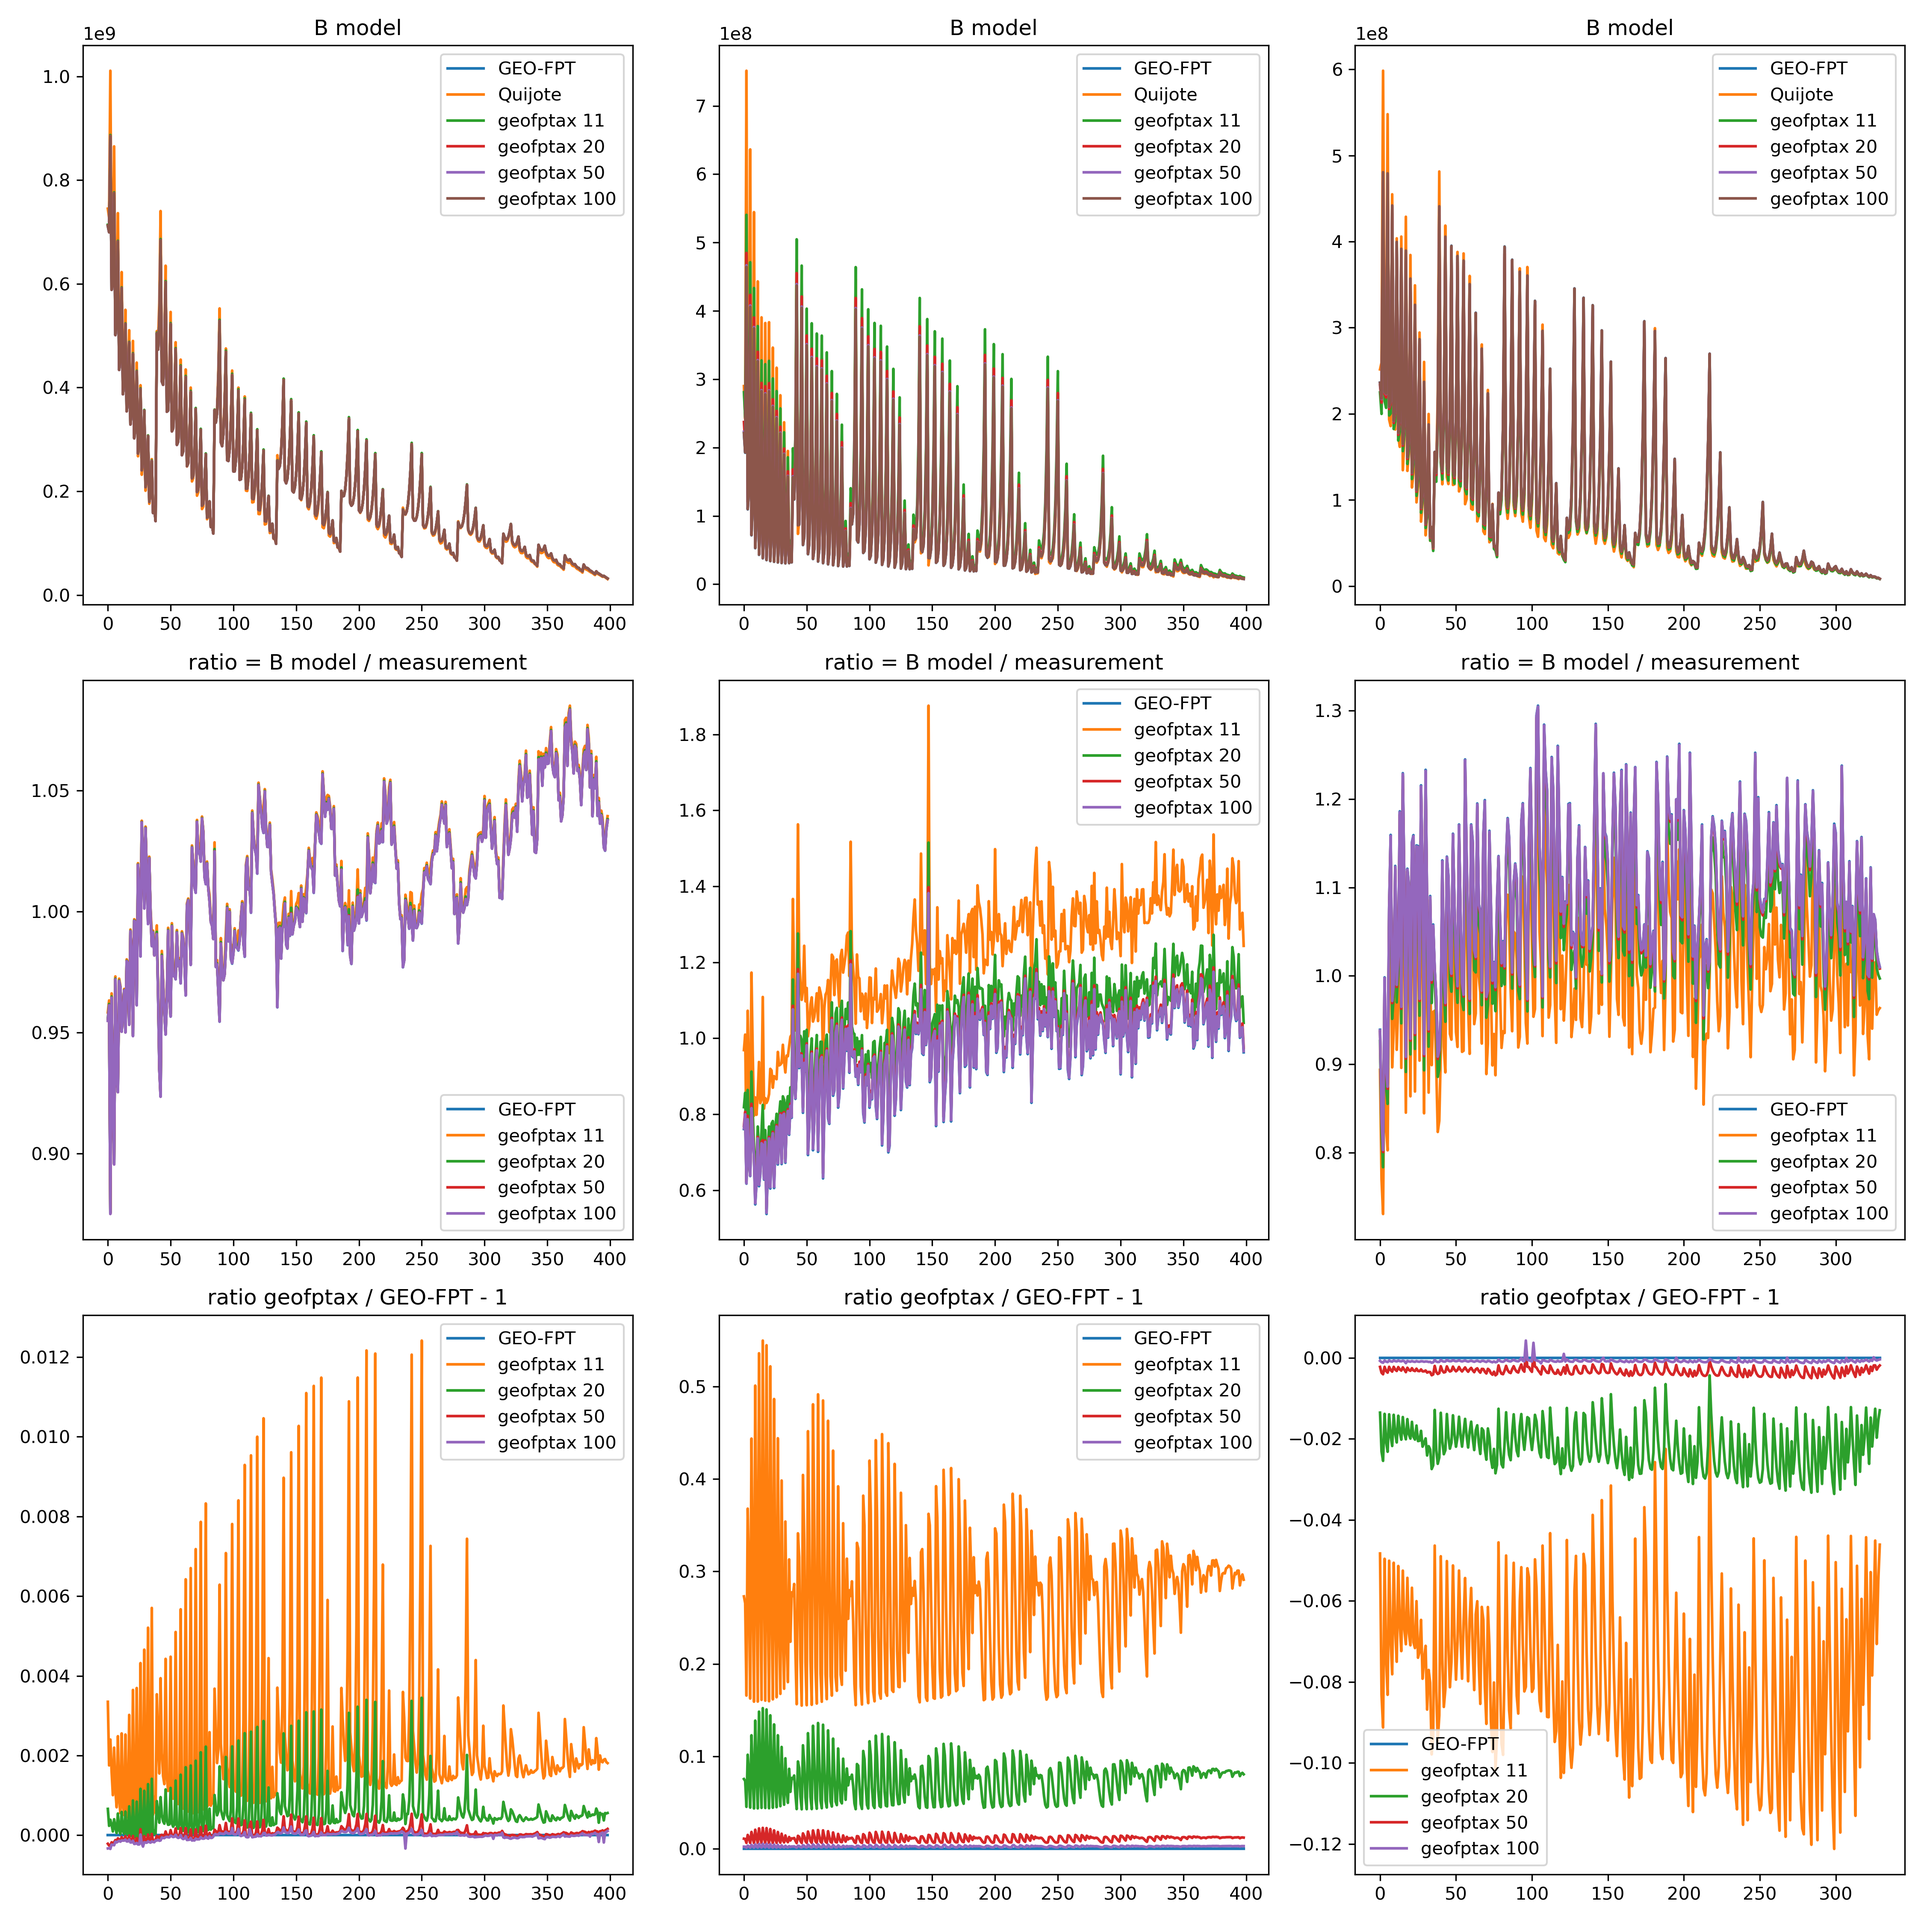
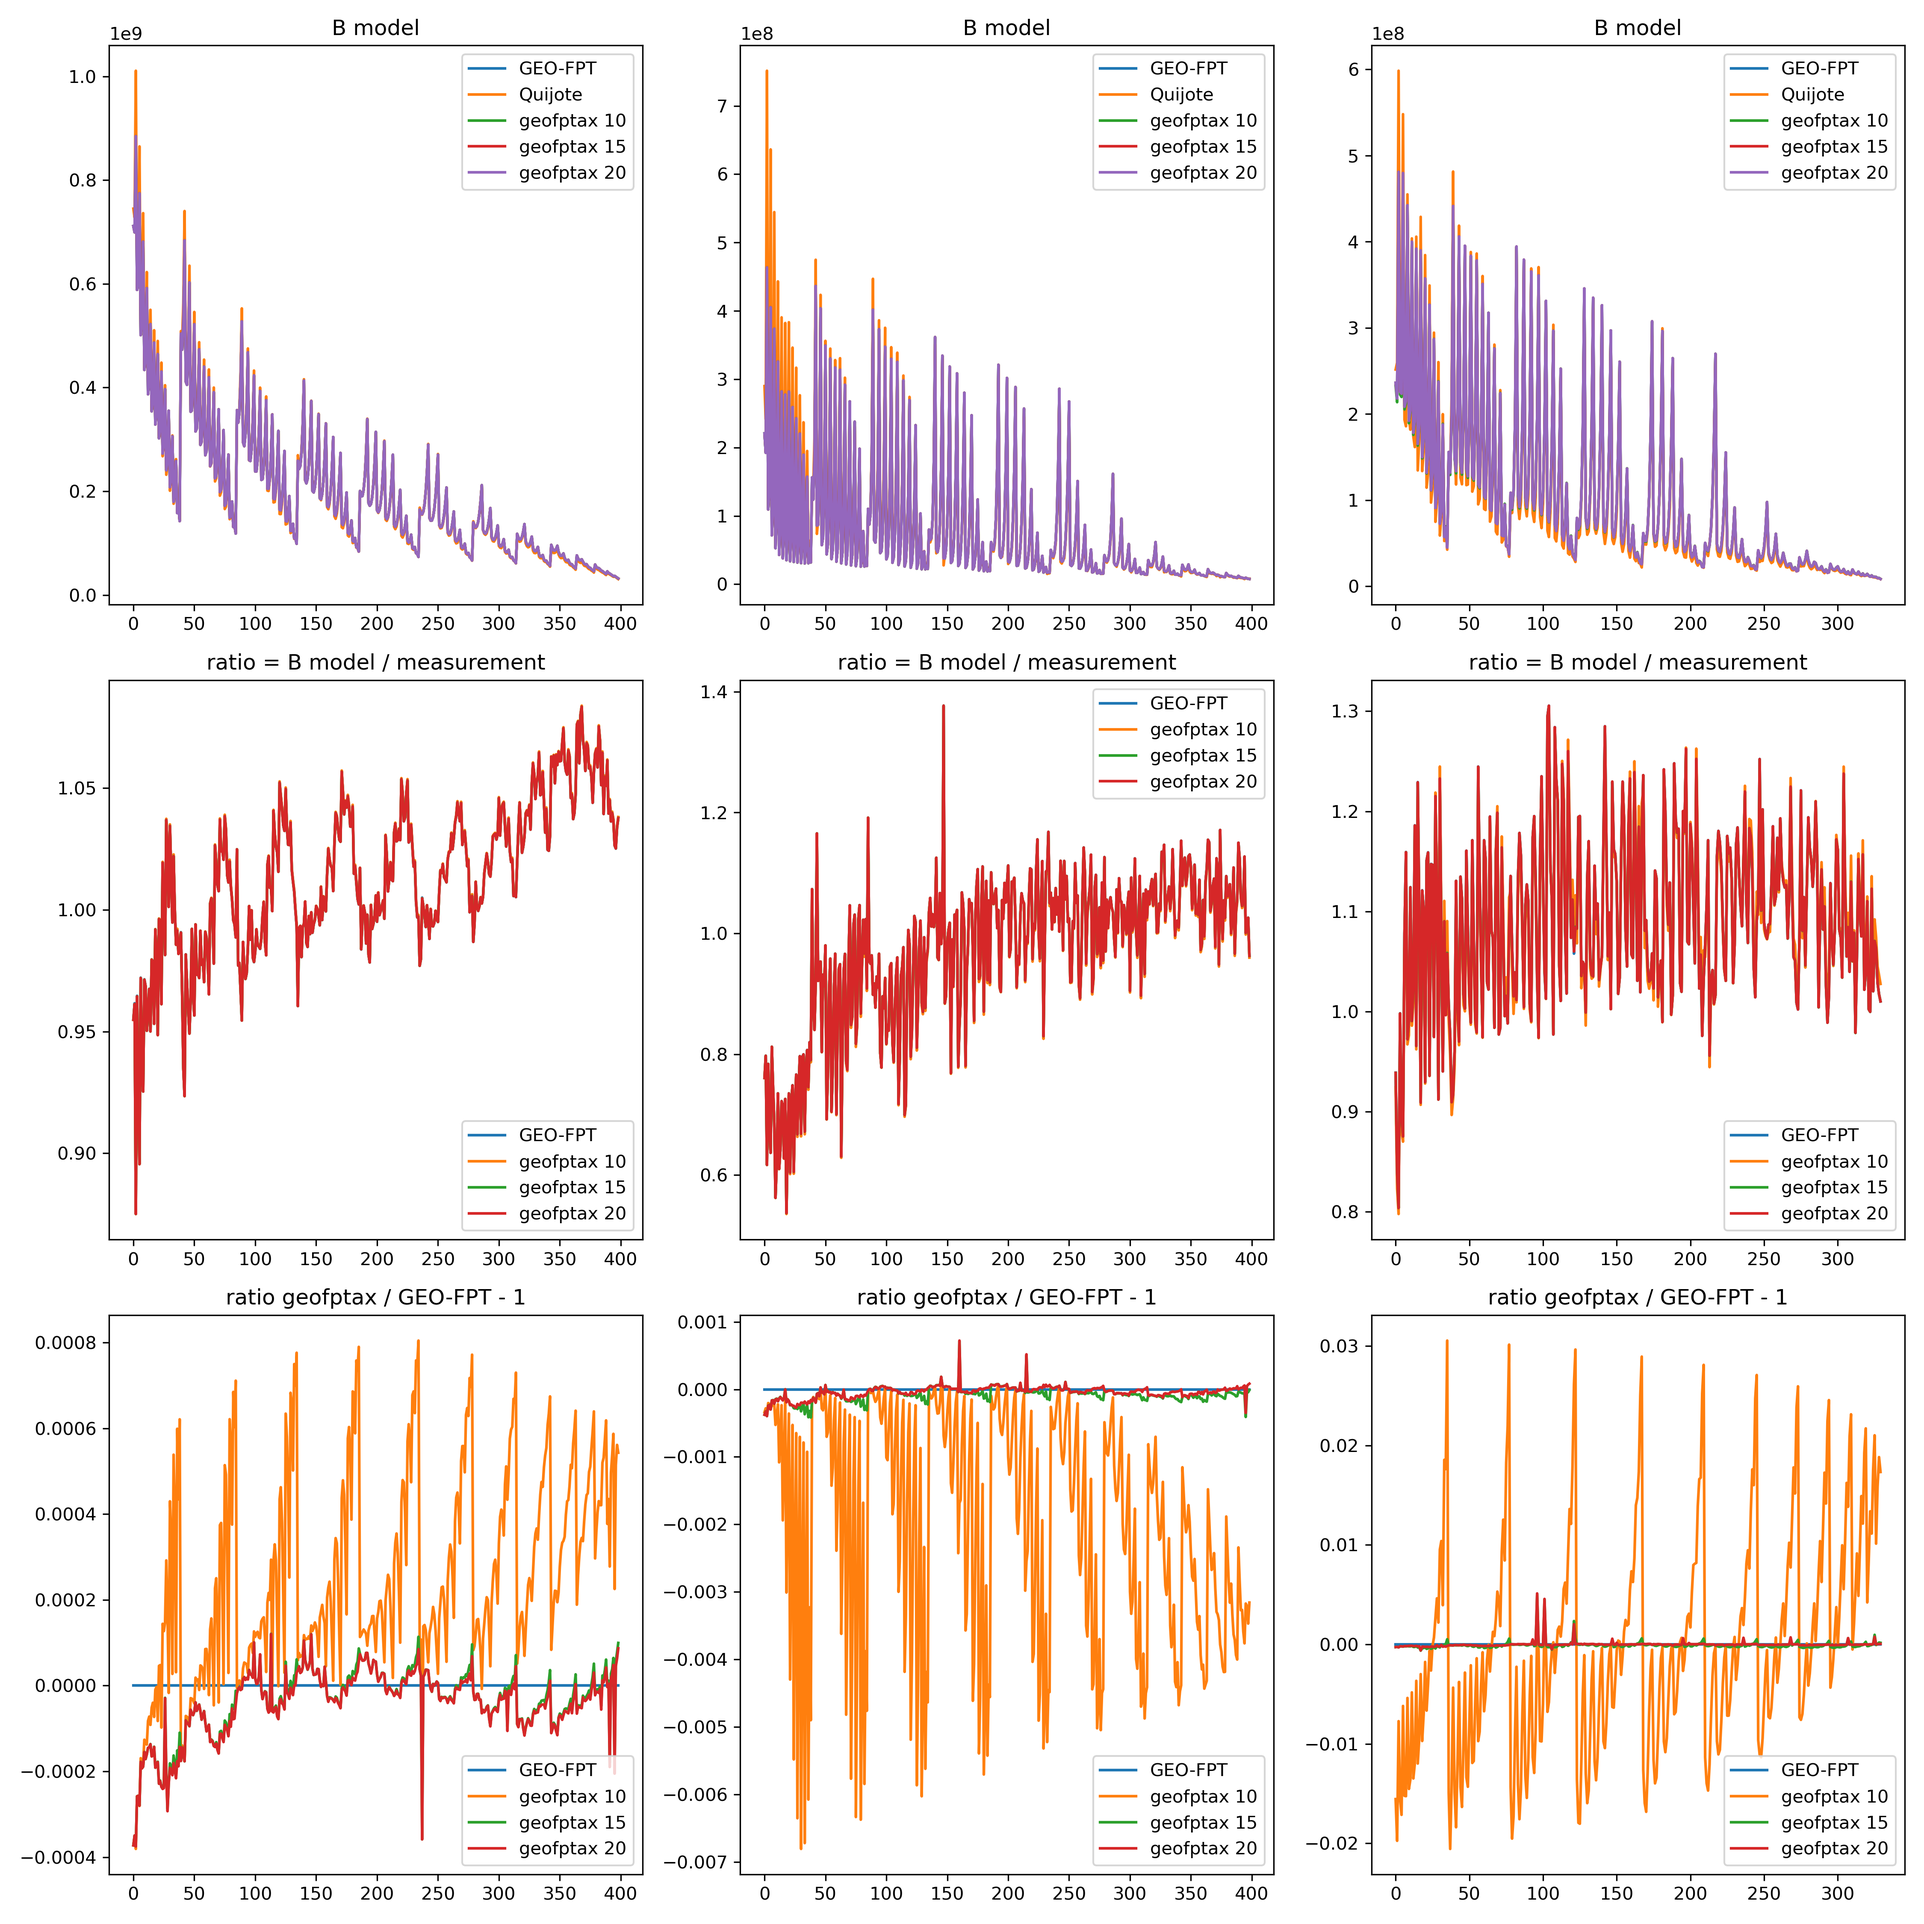
Switched trapezoidal integration to Gauss-Legendre

diff --git a/geofptax/kernels.py b/geofptax/kernels.py
@@ -7,42 +7,114 @@ from .constants import *
 
 
 
-def integrate_1d(f, a, b, args = ()):
-    """
-    Perform 1D integration using quadgk.
+@jax.jit
+def jax_leggauss(x):
+    """JAX-compatible Gauss-Legendre quadrature weights and nodes."""
+    # Use Newton's method to find roots of Legendre polynomials
+    # Initial guess (Chebyshev nodes)
+    n = x.shape[0]
+    x = jnp.cos(jnp.pi * (x + 0.5) / n)
     
-    Args:
-        f: Function to integrate.
-        a, b: Lower and upper limits of integration.
+    # Newton iteration
+    def body_fun(*val):
+        x, _ = val
+        P, P_prime = legendre_recurrence(x, n)
+        dx = P / P_prime
+        x_new = x - dx
+        return x_new, None
     
-    Returns:
-        The result of the 1D integral.
+    x, _ = jax.lax.scan(body_fun, x, None, length=5)  # 5 iterations typically sufficient
+    
+    # Compute weights
+    _, P_prime = legendre_recurrence(x, n)
+    w = 2.0 / ((1.0 - x**2) * P_prime**2)
+    return x, w
+
+def legendre_recurrence(x, n):
+    """Compute Legendre polynomial and its derivative using recurrence."""
+    P0 = jnp.ones_like(x)
+    P1 = x
+    dP0 = jnp.zeros_like(x)
+    dP1 = jnp.ones_like(x)
+    
+    for k in range(1, n):
+        P = ((2*k + 1)*x*P1 - k*P0)/(k + 1)
+        dP = ((2*k + 1)*(P1 + x*dP1) - k*dP0)/(k + 1)
+        P0, P1 = P1, P
+        dP0, dP1 = dP1, dP
+    
+    return P1, dP1
+
+@partial(jax.jit, static_argnames = ('f', 'nx', 'ny'))
+def integrate_2d_gauss(f, xmin, xmax, ymin, ymax, nx=20, ny=20):
     """
-    result, _ = quadgk(f, [a, b], args = args)
-    return result
+    Compute a 2D integral using vectorized Gauss-Legendre quadrature.
+
+    This function performs double integration of a function f(x,y) over the rectangular domain
+    [xmin, xmax] × [ymin, ymax] using Gauss-Legendre quadrature rules. The implementation
+    is fully JAX-compatible and optimized for parallel evaluation.
+
+    Parameters
+    ----------
+    f : callable
+        A JAX-compatible function of two variables to be integrated.
+        Signature must be f(x, y) where x and y are JAX arrays.
+    xmin : float
+        Lower bound of integration for the x-axis.
+    xmax : float
+        Upper bound of integration for the x-axis.
+    ymin : float
+        Lower bound of integration for the y-axis.
+    ymax : float
+        Upper bound of integration for the y-axis.
+    nx : int, optional
+        Number of Gauss-Legendre quadrature points for x-axis. Default is 20.
+    ny : int, optional
+        Number of Gauss-Legendre quadrature points for y-axis. Default is 20.
+
+    Returns
+    -------
+    float
+        The computed value of the integral ∫∫ f(x,y) dx dy over the domain.
+
+    Notes
+    -----
+    - The implementation uses JAX-native operations and is fully JIT-compilable.
+    - For smooth functions, nx=ny=20 typically gives machine precision.
+    - The quadrature weights/nodes are computed using the Golub-Welsch algorithm.
+    - The function handles vectorized inputs efficiently using JAX's vmap.
+
+    Examples
+    --------
+    >>> def f(x, y):
+    ...     return jnp.sin(x) * jnp.cos(y)
+    >>> integrate_2d_gauss(f, 0, 1, 0, 1)  # Integrate sin(x)cos(y) over [0,1]×[0,1]
+    Array(0.354036, dtype=float32)
+
+    See Also
+    --------
+    weights_leggauss : The underlying 1D quadrature implementation
+    jax.vmap : Used for vectorized function evaluation
+    """
+    # Get quadrature points and weights
+    x, wx = jax_leggauss(jnp.arange(nx))
+    y, wy = jax_leggauss(jnp.arange(ny))
+    
+    # Rescale from [-1, 1] to [xmin, xmax] × [ymin, ymax]
+    x_scaled = 0.5*(xmax - xmin)*x + 0.5*(xmax + xmin)
+    y_scaled = 0.5*(ymax - ymin)*y + 0.5*(ymax + ymin)
+    
+    # Create 2D grid of points
+    X, Y = jnp.meshgrid(x_scaled, y_scaled, indexing='ij')
+    
+    # Vectorized function evaluation
+    F = jax.vmap(jax.vmap(f, (0, 0)), (0, 0))(X, Y)
+    
+    # Compute integral
+    integral = jnp.sum(wx[:, None] * wy[None, :] * F)
+    return integral * 0.25*(xmax - xmin)*(ymax - ymin)
 
 
-def integrate_2d(f, xmin, xmax, ymin, ymax, args = ()):
-    """
-    2D integrator using nested 1D integrations with quadgk.
-    
-    Args:
-        f: Function to integrate, f(x, y).
-        xmin, xmax: Limits of integration for the x-axis.
-        ymin, ymax: Limits of integration for the y-axis.
-    
-    Returns:
-        The result of the 2D integral.
-    """
-    # Define a function to integrate f(x, y) over y for a fixed x
-    def integrate_y(x):
-        return integrate_1d(lambda y, *args: f(x, y, *args), ymin, ymax, args = args)
-    
-    
-    integral_2d = integrate_1d(integrate_y, xmin, xmax)
-    
-    return integral_2d
-    
     
 def cosab(ka, kb, kc):
     """
@@ -183,6 +255,7 @@ def z2_ker(ka, kb, kc, fkern, gkern, mua, mub, cosm_par):
 
     ksq = jnp.sqrt(ka**2 + kb**2 + 2 * ka * kb * cab)  # modulus of vector sum k1 + k2
     mu12 = (ka * mua + kb * mub) / ksq
+    # TODO: relax condition on bs and make it a parameter.
     bs = -4.0 / 7.0 * (b1 - 1.0)
     s2 = cab**2 - 1.0 / 3.0  # S_2 kernel
 
@@ -344,8 +417,47 @@ def bkeff_r_scalar(mua_m, phi, tr, cosm_par, pk_in, sig_fog, log_km, log_pkm, af
 
 bkeff_r_vmap = jax.vmap(bkeff_r_scalar, in_axes=(0, 0, None, None, None, None, None, None, None, None))
 
-
 def integrate_bkeff_r(tr, cosm_par, pk_in, sig_fog, log_km, log_pkm, af, mp, xmin, xmax, num_points):
+    """
+    Perform 2D integration of the effective bispectrum integrand using Gauss-Legendre quadrature.
+
+    Parameters
+    ----------
+    tr : tuple or jnp.ndarray
+        Triangle side lengths (ka_m, kb_m, kc_m) in real space.
+    cosm_par : jnp.ndarray
+        Cosmological parameters array.
+    pk_in : tuple or jnp.ndarray
+        Power spectrum values at ka_m, kb_m, kc_m.
+    sig_fog : float
+        Finger-of-God damping factor.
+    log_km : jnp.ndarray
+        Logarithm of wavevector magnitudes for interpolation.
+    log_pkm : jnp.ndarray
+        Logarithm of power spectrum values for interpolation.
+    af : jnp.ndarray
+        Array of coefficients for the GEO-FPT factor.
+    mp : int
+        Multipole index (0 for monopole, 1 for quadrupole, etc.).
+    xmin : tuple
+        Lower bounds of integration (mua_min, phi_min).
+    xmax : tuple
+        Upper bounds of integration (mua_max, phi_max).
+    num_points : int, optional
+        Number of Gauss-Legendre points for mua and phi axes. Default is 20.
+
+    Returns
+    -------
+    float
+        Result of the 2D integration.
+    """
+    nx , ny = num_points, num_points
+    def integrand(mua, phi):
+        return bkeff_r_scalar(mua, phi, tr, cosm_par, pk_in, sig_fog, log_km, log_pkm, af, mp)
+
+    return integrate_2d_gauss(integrand, xmin[0], xmax[0], xmin[1], xmax[1], nx=nx, ny=ny)
+
+def _integrate_bkeff_r(tr, cosm_par, pk_in, sig_fog, log_km, log_pkm, af, mp, xmin, xmax, num_points):
     """
     Perform 2D integration of the effective bispectrum integrand.
 
@@ -394,7 +506,6 @@ def integrate_bkeff_r(tr, cosm_par, pk_in, sig_fog, log_km, log_pkm, af, mp, xmi
 
 
 vec_integrate_bkeff_r = jax.jit(jax.vmap(integrate_bkeff_r, in_axes = (0, None, 0, None, None, None, None, None, None, None, None)), static_argnames = ('num_points',))
-vec_integrate = jax.jit(jax.vmap(integrate_2d, in_axes = (None, None, None, None, None, (0, None, 0, None, None, None, None, None))), static_argnames = ('f',))
 
 
 
@@ -466,7 +577,7 @@ def ext_bk_mp(tr, tr2, tr3, tr4, log_km, log_pkm, cosm_par, redshift, fi_vals=F_
 
 
 @partial(jax.jit, static_argnames=('num_points',))
-def bk_multip(tr, tr2, tr3, tr4, kp, pk, cosm_par, redshift, num_points=50, fi_vals=F_VALS_FULL):
+def bk_multip(tr, tr2, tr3, tr4, kp, pk, cosm_par, redshift, num_points=10, fi_vals=F_VALS_FULL):
     """
     Compute the bispectrum multipoles for a given set of triangles, power spectrum, and cosmological parameters.
 

diff --git a/test/test_bispec.py b/test/test_bispec.py
@@ -71,7 +71,7 @@ fig.savefig("plots/test_bispec.png", dpi=300)
 
 # Compute bispectrum
 
-for num_points in [11, 20 ,50 ,100]:
+for num_points in [10, 15, 20]:
     bk0, bk200, bk020, bk002 = bk_multip(tr0,tr0,tr020,tr020,kp,nlmpk,cosm_par,redshift=0.5, num_points = num_points)
     tic = time.time()
     bk0, bk200, bk020, bk002 = bk_multip(tr0,tr0,tr020,tr020,kp,nlmpk,cosm_par,redshift=0.5, num_points = num_points)
